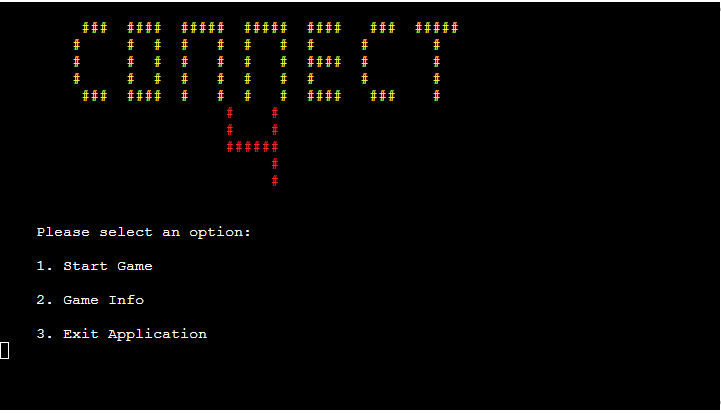
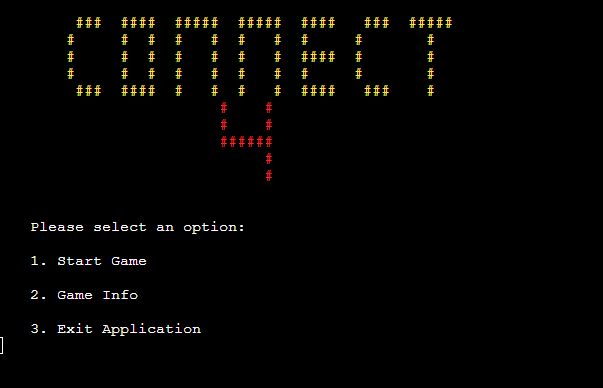
Docs: updated images for title/startscreen

diff --git a/README.md b/README.md
@@ -6,7 +6,7 @@ This project was created using the language 'Python'. It is based on the real li
 
 It has been deployed on Heroku using Code Institute's template to allow users to play it within their browser.
 
-![Start Screen](/docs-pictures/pp3-startscreen.png)
+![Start Screen](/docs-pictures/pp3-title.png)
 
 [Link to Game](https://pp3-connect-four-b560fdff375f.herokuapp.com)
 
